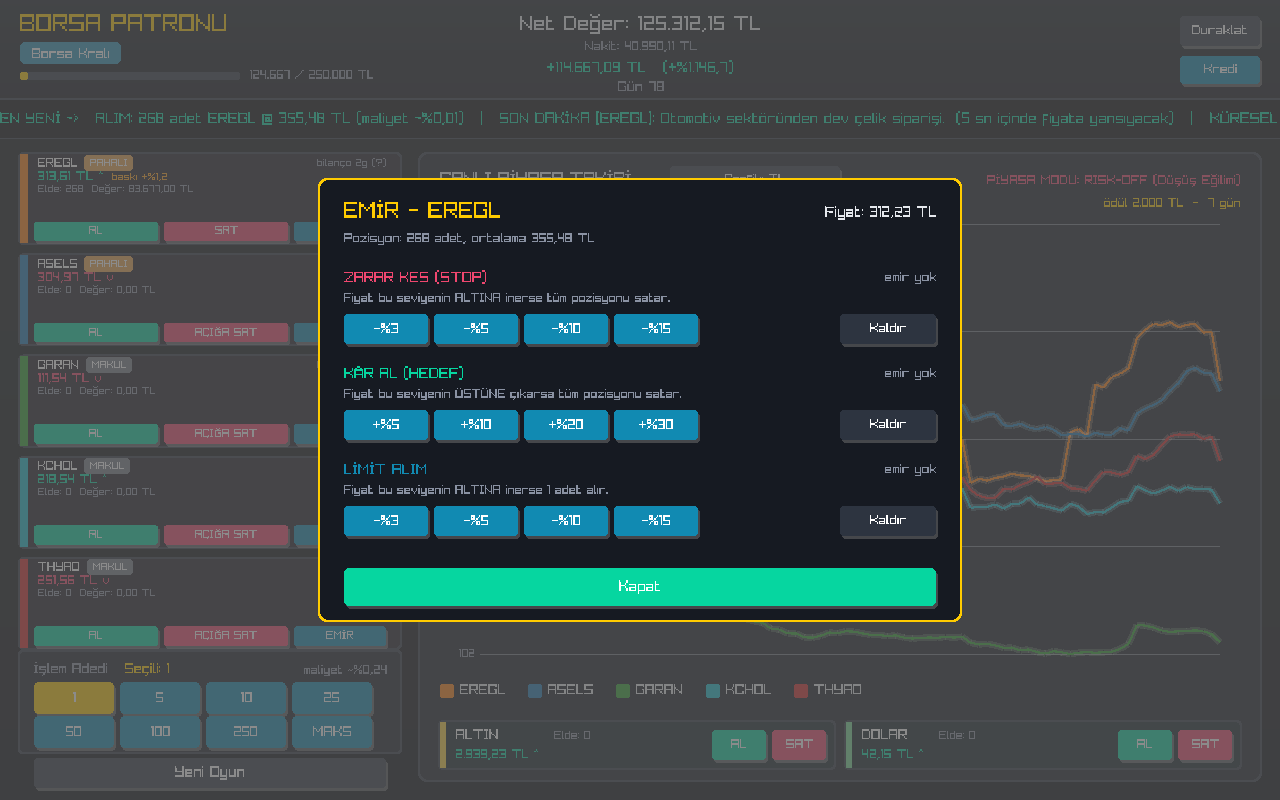
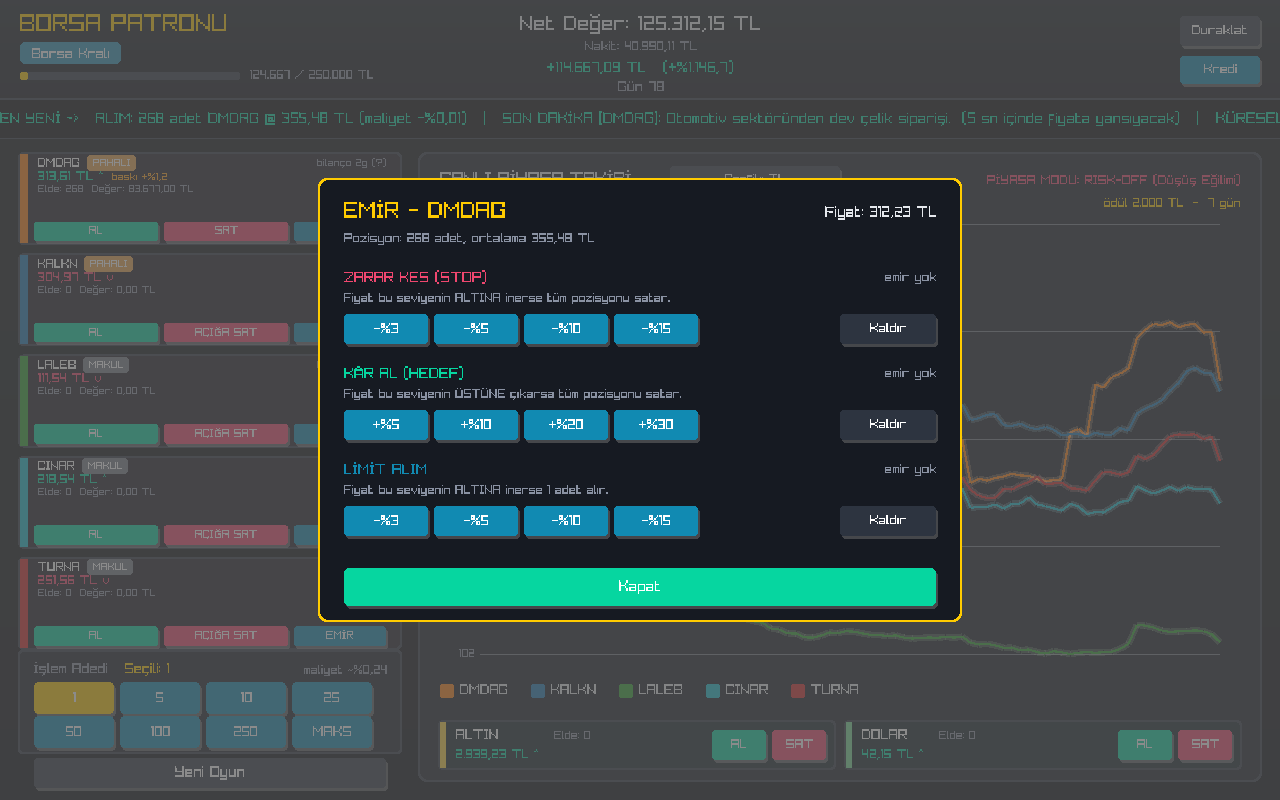
Sirketler hayali: KALKN, TURNA, LALEB, DMDAG, CINAR, SEPET (denge ve kayit uyumu ayni); magaza gorselleri ve kapaklar yeniden uretildi

diff --git a/src/veri.h b/src/veri.h
@@ -27,50 +27,54 @@ struct SirketBilgi {
 };
 
 // 6 hisse (RUTBELER ile ayni sayida: her rutbe atlayisinda bir yenisi acilir).
+// Sirketler ve kodlari HAYALIDIR (v2.1 sonrasi; oncesinde gercek BIST sirketleriydi):
+// gercek bir sirketin adiyla uydurma haber ("pilot grevi", "sorusturma") yazmak
+// marka sorunu dogurabilir. Kayit dosyasi sirketleri SIRAYLA tutar, adla degil;
+// ad degistirmek eski kayitlari bozmaz, SIRAYI degistirmek bozar.
 // ACILMA SIRASI baslangic fiyatina gore belirlenir (en ucuz ilk), dizideki sira
 // onemli degildir. Haberin iyi mi kotu mu secilecegi havuzdaki ORANA degil
 // rutbeye bagli bir olasiliga gore belirlenir (bkz. AcemiKorumasi); o yuzden
 // buraya haber eklemek dengeyi degil sadece CESITLILIGI degistirir.
 static const vector<SirketBilgi> SIRKETLER = {
-    {"ASELS", {"Aselsan Savunma San.", "Aselsan Defense Ind."}, {31, 119, 180, 255}, Sektor::SAVUNMA, 45.0f, 0.7f, {
+    {"KALKN", {"Kalkan Savunma", "Kalkan Defense"}, {31, 119, 180, 255}, Sektor::SAVUNMA, 45.0f, 0.7f, {
         {{"İhracat rekoru kırıldı!", "Export record broken!"}, 1.16f},
         {{"Tedarik zinciri sorunları yaşanıyor.", "Supply chain problems reported."}, 0.87f},
         {{"Yeni nesil radar ihalesi kazanıldı.", "Won the next-gen radar tender."}, 1.10f},
         {{"Yurt dışından büyük insansız hava aracı siparişi alındı.", "Landed a major drone order from abroad."}, 1.12f},
         {{"Savunma bütçesinde kesinti gündemde.", "Defense budget cuts are on the table."}, 0.90f},
     }},
-    {"THYAO", {"Türk Hava Yolları", "Turkish Airlines"}, {214, 39, 40, 255}, Sektor::HAVACILIK, 250.0f, 1.3f, {
+    {"TURNA", {"Turna Hava Yolları", "Turna Airways"}, {214, 39, 40, 255}, Sektor::HAVACILIK, 250.0f, 1.3f, {
         {{"Turizm sezonu rekor kırdı.", "Record-breaking tourism season."}, 1.11f},
         {{"Yakıt maliyetleri sert yükseldi.", "Fuel costs have jumped."}, 0.90f},
         {{"Yeni uçuş hatları açıldı.", "New flight routes opened."}, 1.07f},
         {{"Yolcu doluluk oranı rekor seviyede.", "Passenger load factor at a record high."}, 1.09f},
         {{"Pilot grevi uçuşları aksattı.", "A pilot strike disrupted flights."}, 0.88f},
     }},
-    {"GARAN", {"Garanti BBVA", "Garanti BBVA"}, {44, 160, 44, 255}, Sektor::BANKA, 60.0f, 1.05f, {
+    {"LALEB", {"Lale Bankası", "Lale Bank"}, {44, 160, 44, 255}, Sektor::BANKA, 60.0f, 1.05f, {
         {{"Kâr beklentisi aşıldı.", "Profit beat expectations."}, 1.09f},
         {{"Kredi faizleri yükseldi.", "Loan rates have gone up."}, 0.92f},
         {{"Kredi notu yükseltildi.", "Credit rating upgraded."}, 1.06f},
         {{"Takipteki kredi oranı geriledi.", "Non-performing loan ratio declined."}, 1.08f},
         {{"Yeni bankacılık düzenlemesi kâr marjını daralttı.", "New banking regulation squeezed margins."}, 0.91f},
     }},
-    {"EREGL", {"Ereğli Demir Çelik", "Eregli Iron & Steel"}, {255, 127, 14, 255}, Sektor::SANAYI, 38.0f, 1.2f, {
+    {"DMDAG", {"Demirdağ Çelik", "Demirdag Steel"}, {255, 127, 14, 255}, Sektor::SANAYI, 38.0f, 1.2f, {
         {{"Çelik ihracatı rekor kırdı!", "Steel exports hit a record!"}, 1.14f},
         {{"Demir cevheri fiyatları yükseldi, maliyetler arttı.", "Iron ore prices rose; costs are up."}, 0.89f},
         {{"Yeni yüksek fırın yatırımı devreye girdi.", "A new blast furnace came online."}, 1.09f},
         {{"Otomotiv sektöründen dev çelik siparişi.", "Huge steel order from the auto sector."}, 1.11f},
         {{"Küresel çelik fiyatları geriledi.", "Global steel prices fell."}, 0.90f},
     }},
-    {"KCHOL", {"Koç Holding", "Koc Holding"}, {23, 190, 207, 255}, Sektor::HOLDING, 145.0f, 1.0f, {
+    {"CINAR", {"Çınar Holding", "Cinar Holding"}, {23, 190, 207, 255}, Sektor::HOLDING, 145.0f, 1.0f, {
         {{"Otomotiv ve enerji kollarında güçlü çeyrek sonuçları.", "Strong quarter in automotive and energy."}, 1.11f},
         {{"Kur riski holding bilançosunu baskıladı.", "Currency risk weighed on the balance sheet."}, 0.91f},
         {{"Yeni bir yurt dışı şirket alımı açıklandı.", "Announced a new overseas acquisition."}, 1.08f},
         {{"Beyaz eşya kolu ihracat rekoru kırdı.", "Home appliance arm set an export record."}, 1.09f},
         {{"Otomotiv satışları beklentinin altında kaldı.", "Auto sales fell short of expectations."}, 0.90f},
     }},
-    {"BIMAS", {"BİM Mağazalar", "BIM Stores"}, {148, 103, 189, 255}, Sektor::PERAKENDE, 430.0f, 0.55f, {
+    {"SEPET", {"Sepet Marketler", "Sepet Markets"}, {148, 103, 189, 255}, Sektor::PERAKENDE, 430.0f, 0.55f, {
         {{"Mağaza sayısı hızla artıyor, ciro rekor kırdı.", "Store count is growing fast; record revenue."}, 1.10f},
         {{"Enflasyon tüketici harcamalarını baskılıyor.", "Inflation is squeezing consumer spending."}, 0.92f},
-        {{"Yeni 'BİM Online' girişimi ilgi gördü.", "The new 'BIM Online' venture drew interest."}, 1.07f},
+        {{"Yeni 'Sepet Online' girişimi ilgi gördü.", "The new 'Sepet Online' venture drew interest."}, 1.07f},
         {{"Özel markalı ürün satışları patladı.", "Private-label sales are booming."}, 1.09f},
         {{"Rekabet Kurumu soruşturma başlattı.", "The competition authority opened a probe."}, 0.89f},
     }},
@@ -116,7 +120,7 @@ struct YonetimSecenek {
     IkiDil etiket;           // buton uzerinde gorunen kisa metin
     float temelDegerCarpani; // fiyata VE adil degere uygulanan aninda etki
     float riskPrimiDegisimi; // hissenin KALICI oynaklik tabanina eklenen/cikan miktar
-    IkiDil logMetni;         // haber bandina yazilacak sonuc ("ASELS YONETIM KARARI: " + bu)
+    IkiDil logMetni;         // haber bandina yazilacak sonuc ("KALKN YONETIM KARARI: " + bu)
     IkiDil basarisizMetni;   // (yalnizca riskli secenek) kumar TUTMAZSA haber bandina yazilan
 };
 

diff --git a/src/temel.h b/src/temel.h
@@ -71,7 +71,7 @@ static const float GUN_SURESI_SN = 18.0f;        // bir "oyun gunu" kac saniye s
 //
 // OLCULEN YENI DEGERLER (test/denge_testi.cpp, bolum 2):
 //   korelasyon: 1 sn ~0,40, 30 sn ~0,53      (eskiden 0,72 / 0,98)
-//   tik basi std: BIMAS %0,35 ... THYAO %0,60 (eskisiyle AYNI tutuldu)
+//   tik basi std: SEPET %0,35 ... TURNA %0,60 (eskisiyle AYNI tutuldu)
 //   adil degerden tipik sapma: %6 ... %13     (eskisiyle ayni)
 // Yani hisselerin tek tek ne kadar oynak oldugu DEGISMEDI; degisen sey artik
 // birbirlerinden ayrisabilmeleri. "Hangisini alayim" sorusunun bir anlami var,
@@ -80,8 +80,8 @@ static const float MARKET_KALICILIK = 0.965f;     // yari omur ~19,5 sn
 static const float MARKET_SOK_BUYUKLUK = 0.0045f; // piyasa faktoru std ~%0,50
 static const float OZEL_KALICILIK = 0.965f;
 static const float OZEL_SOK_BUYUKLUK = 0.0040f;
-// Ozel faktorun buyuklugu betayla birlikte artar (savunmaci BIMAS kendi basina
-// da sakin, oynak THYAO kendi basina da oynak): olcek = TABAN + EGIM*beta.
+// Ozel faktorun buyuklugu betayla birlikte artar (savunmaci SEPET kendi basina
+// da sakin, oynak TURNA kendi basina da oynak): olcek = TABAN + EGIM*beta.
 static const float OZEL_OLCEK_TABAN = 0.25f;
 static const float OZEL_OLCEK_EGIM = 0.75f;
 // PIYASA MODU gostergesinin "risk-on / risk-off" esigi (piyasa faktorunun ~0,6 sigmasi).

diff --git a/PROJE_NOTLARI.md b/PROJE_NOTLARI.md
@@ -6,8 +6,8 @@ asistanı) önce bunu okumalı.
 
 ## Ne bu proje
 
-C++17 + raylib ile yazılmış bir borsa yönetim oyunu. Oyuncu 6 hisseyi (ASELS, THYAO,
-GARAN, EREGL, KCHOL, BIMAS — gerçek BIST kodları, fiyatlar tamamen simüle) ve iki
+C++17 + raylib ile yazılmış bir borsa yönetim oyunu. Oyuncu 6 hisseyi (KALKN, TURNA,
+LALEB, DMDAG, CINAR, SEPET — hayali şirketler, fiyatlar tamamen simüle) ve iki
 güvenli limanı (altın, dolar) alıp satar; haberler, küresel olaylar ve bilançolar
 fiyatları oynatır; rütbe atladıkça yeni hisseler ve araçlar (emirler, açığa satış,
 güvenli limanlar, kredi) açılır; bir şirketin %50+1'ini toplayan patronu olur ve
@@ -222,7 +222,7 @@ Her saniye, her hisse için:
 - **Neden eklendi:** v1.x'te iki hissenin 30 saniyelik getirileri arasındaki
   korelasyon **0,98** idi (hepsi aynı çizgiyi çiziyordu, çeşitlendirme anlamsızdı).
   Şimdi 1 sn'de 0,39, 30 sn'de **0,54** (gerçek borsalarda ~0,3–0,5). Hisselerin
-  tek tek oynaklığı (tik başı %0,35 BIMAS … %0,63 THYAO) ve adil değerden tipik
+  tek tek oynaklığı (tik başı %0,35 SEPET … %0,63 TURNA) ve adil değerden tipik
   sapması (%6–13) **eskisiyle aynı** tutuldu.
 - `RastgeleGauss()`'un std sapması 1 değil **0,289**'dur; `volatilite = 0,008`
   gerçekte tik başı ~%0,23 demektir. |x| ≤ 1 (kuyruklar kesik, tek tikte fiyat uçamaz).
@@ -818,6 +818,13 @@ Dikkat edilecekler:
 32. "Oyunu CrazyGames'e göre hazırlar mısın" → SDK v3 köprüsü (gameplay, happytime, ses,
     Data modülüyle kayıt), dış bağlantısız paket (`build.py crazygames`), kurallara uygun
     kapaklar ve sessiz önizleme videoları (`build.py crazygames-medya`), gönderim metni.
+33. "Şirket adlarını hayali yap" (gerçek şirket adıyla uydurma haberler marka sorunu
+    doğurabilirdi; CrazyGames'in elle incelemesi öncesi) → KALKN Kalkan Savunma, TURNA Turna
+    Hava Yolları, LALEB Lale Bankası, DMDAG Demirdağ Çelik, CINAR Çınar Holding, SEPET Sepet
+    Marketler. Sıra, fiyat ve beta aynı: denge ve eski kayıtlar değişmedi. Bütün görseller ve
+    videolar yeniden üretildi. **Hâlâ eski adları gösterenler:** Chrome Web Store'daki paket ve
+    ekran görüntüleri (yeni sürümle güncellenmeli), itch.io'daki paket/görseller, YouTube'a
+    önceden yüklenmiş videolar.
 
 ## Sonraki adımlar için fikirler (istenmedi)
 

diff --git a/itch_sayfa_metni.md b/itch_sayfa_metni.md
@@ -111,7 +111,7 @@ Windows sürümü kod imzalama sertifikasıyla imzalı olmadığı için SmartSc
 programlarında normaldir: **"Daha fazla bilgi" → "Yine de çalıştır"**.
 Tarayıcı sürümünde böyle bir uyarı yoktur.
 
-Şirket kodları gerçek BIST kodlarından esinlenmiştir, ancak **tüm fiyat
+Şirketler ve kodları hayalidir; **tüm fiyat
 hareketleri, haberler ve olaylar tamamen kurgusaldır ve rastgele üretilir.**
 Bu bir oyundur: yatırım tavsiyesi değildir ve gerçek piyasa verisi içermez.
 
@@ -220,6 +220,6 @@ The Windows build is not code-signed, so SmartScreen may show an "Unknown
 publisher" warning. That is normal for unsigned indie software: **"More info" →
 "Run anyway"**. The browser version shows no such warning.
 
-Company tickers are inspired by real BIST tickers, but **all price moves, news and
+All companies and tickers are fictional; **all price moves, news and
 events are entirely fictional and randomly generated.** This is a game: it is not
 investment advice and contains no real market data.

diff --git a/chrome_magaza_metni.md b/chrome_magaza_metni.md
@@ -110,7 +110,7 @@ durur. İyi mi kötü mü olduğu söylenmez — okuyup karar vermek sana kalmı
 • 5 senaryo, 18 başarım, Türkçe ve İngilizce, renk körü modu
 • Çevrimdışı oynanır; kayıt yalnızca kendi tarayıcında durur, hiçbir veri toplanmaz
 
-Şirket kodları gerçek BIST kodlarından esinlenmiştir; fiyatlar, haberler ve olaylar
+Şirketler, fiyatlar, haberler ve olaylar
 tamamen kurgusaldır. Bu bir oyundur, yatırım tavsiyesi değildir.
 
 ## Store description — English
@@ -133,5 +133,5 @@ read it and decide.
 • 5 scenarios, 18 achievements, English and Turkish, colorblind mode
 • Plays offline; your save stays in your own browser and no data is collected
 
-Tickers are inspired by real BIST tickers; prices, news and events are entirely
+Companies, prices, news and events are entirely
 fictional. This is a game, not investment advice.

diff --git a/README.md b/README.md
@@ -25,7 +25,7 @@ browser, phones included. Turkish and English. (English summary below.)*
   bilanço takvimi, küresel olaylar, kaydet/yükle.
 - Pencereye uyar: geniş ekranda yanlarda boşluk kalmaz, telefonda dikey yerleşime geçer.
 
-Şirket kodları gerçek BIST kodlarından esinlenmiştir; **fiyatlar, haberler ve olaylar
+**Şirketler, fiyatlar, haberler ve olaylar
 tamamen kurgusaldır.** Yatırım tavsiyesi değildir.
 
 ## Derleme
@@ -75,7 +75,7 @@ stake, read the news, and build an empire.
   achievements, an earnings calendar, global events, save/load.
 - Fits the window: no side bars on wide screens, a portrait layout on phones.
 
-Tickers are inspired by real BIST tickers; **all prices, news and events are entirely
+**All companies, prices, news and events are entirely
 fictional.** Not investment advice.
 
 ### Building
